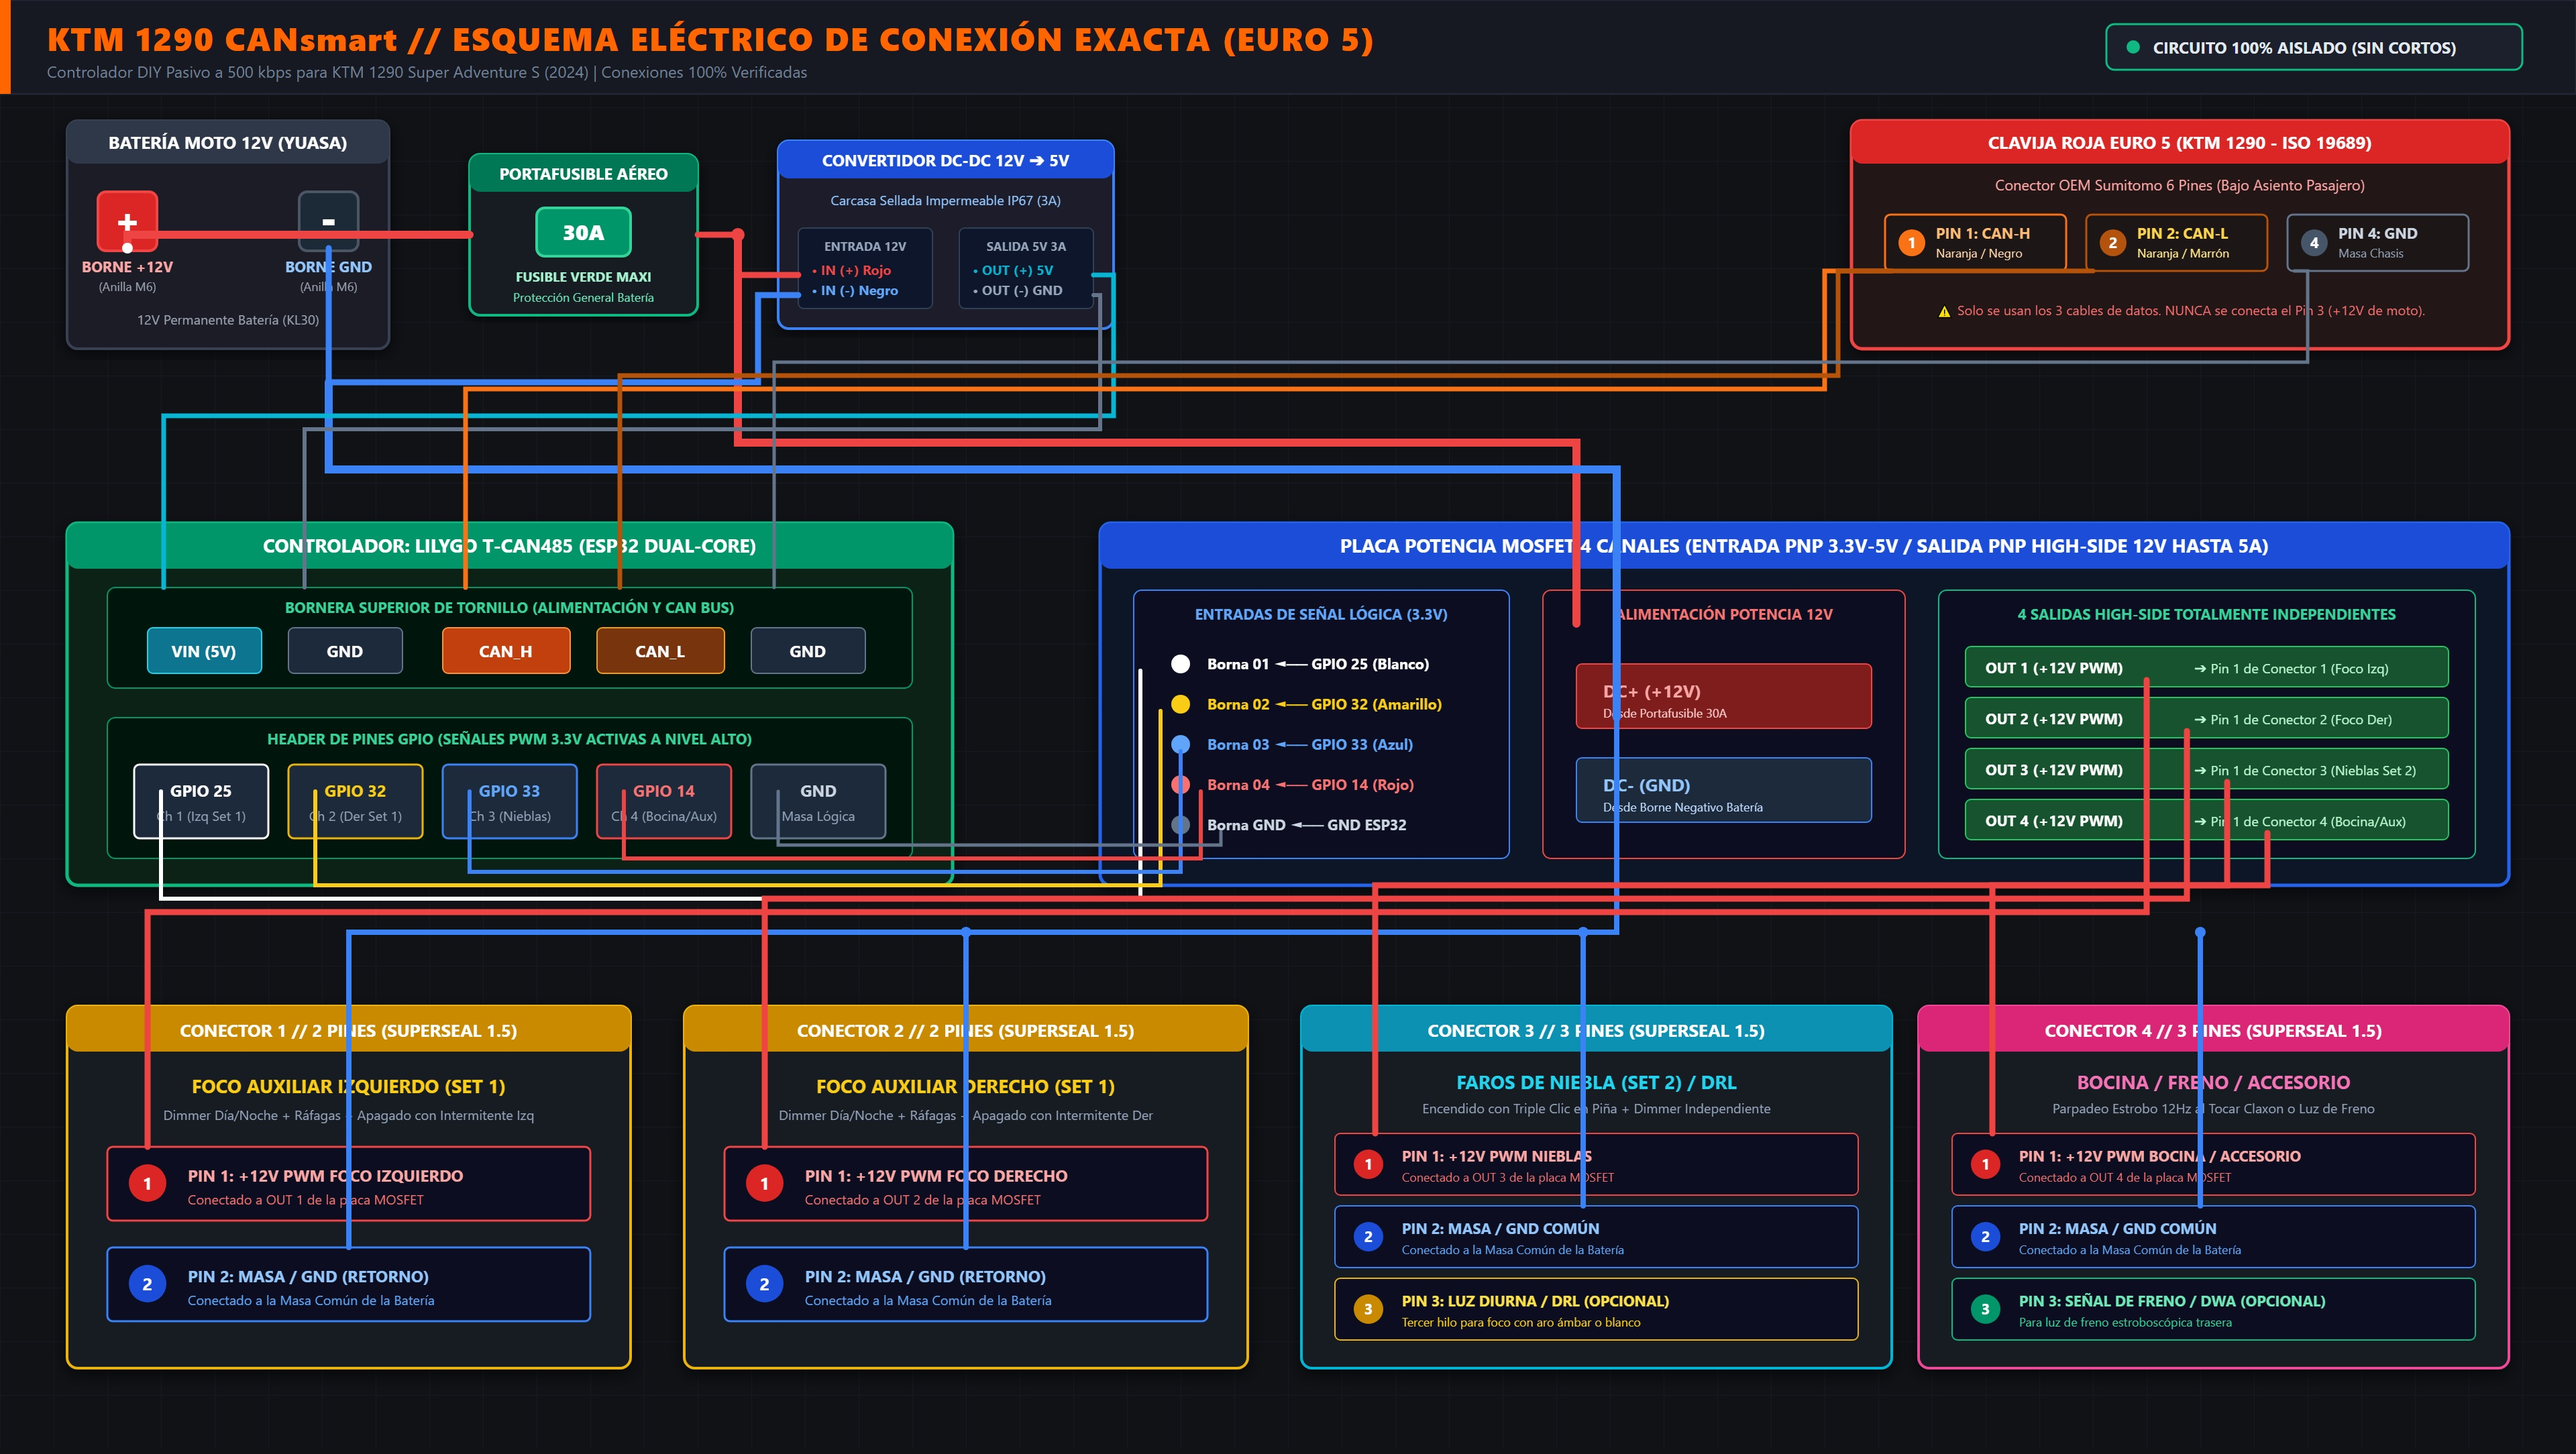
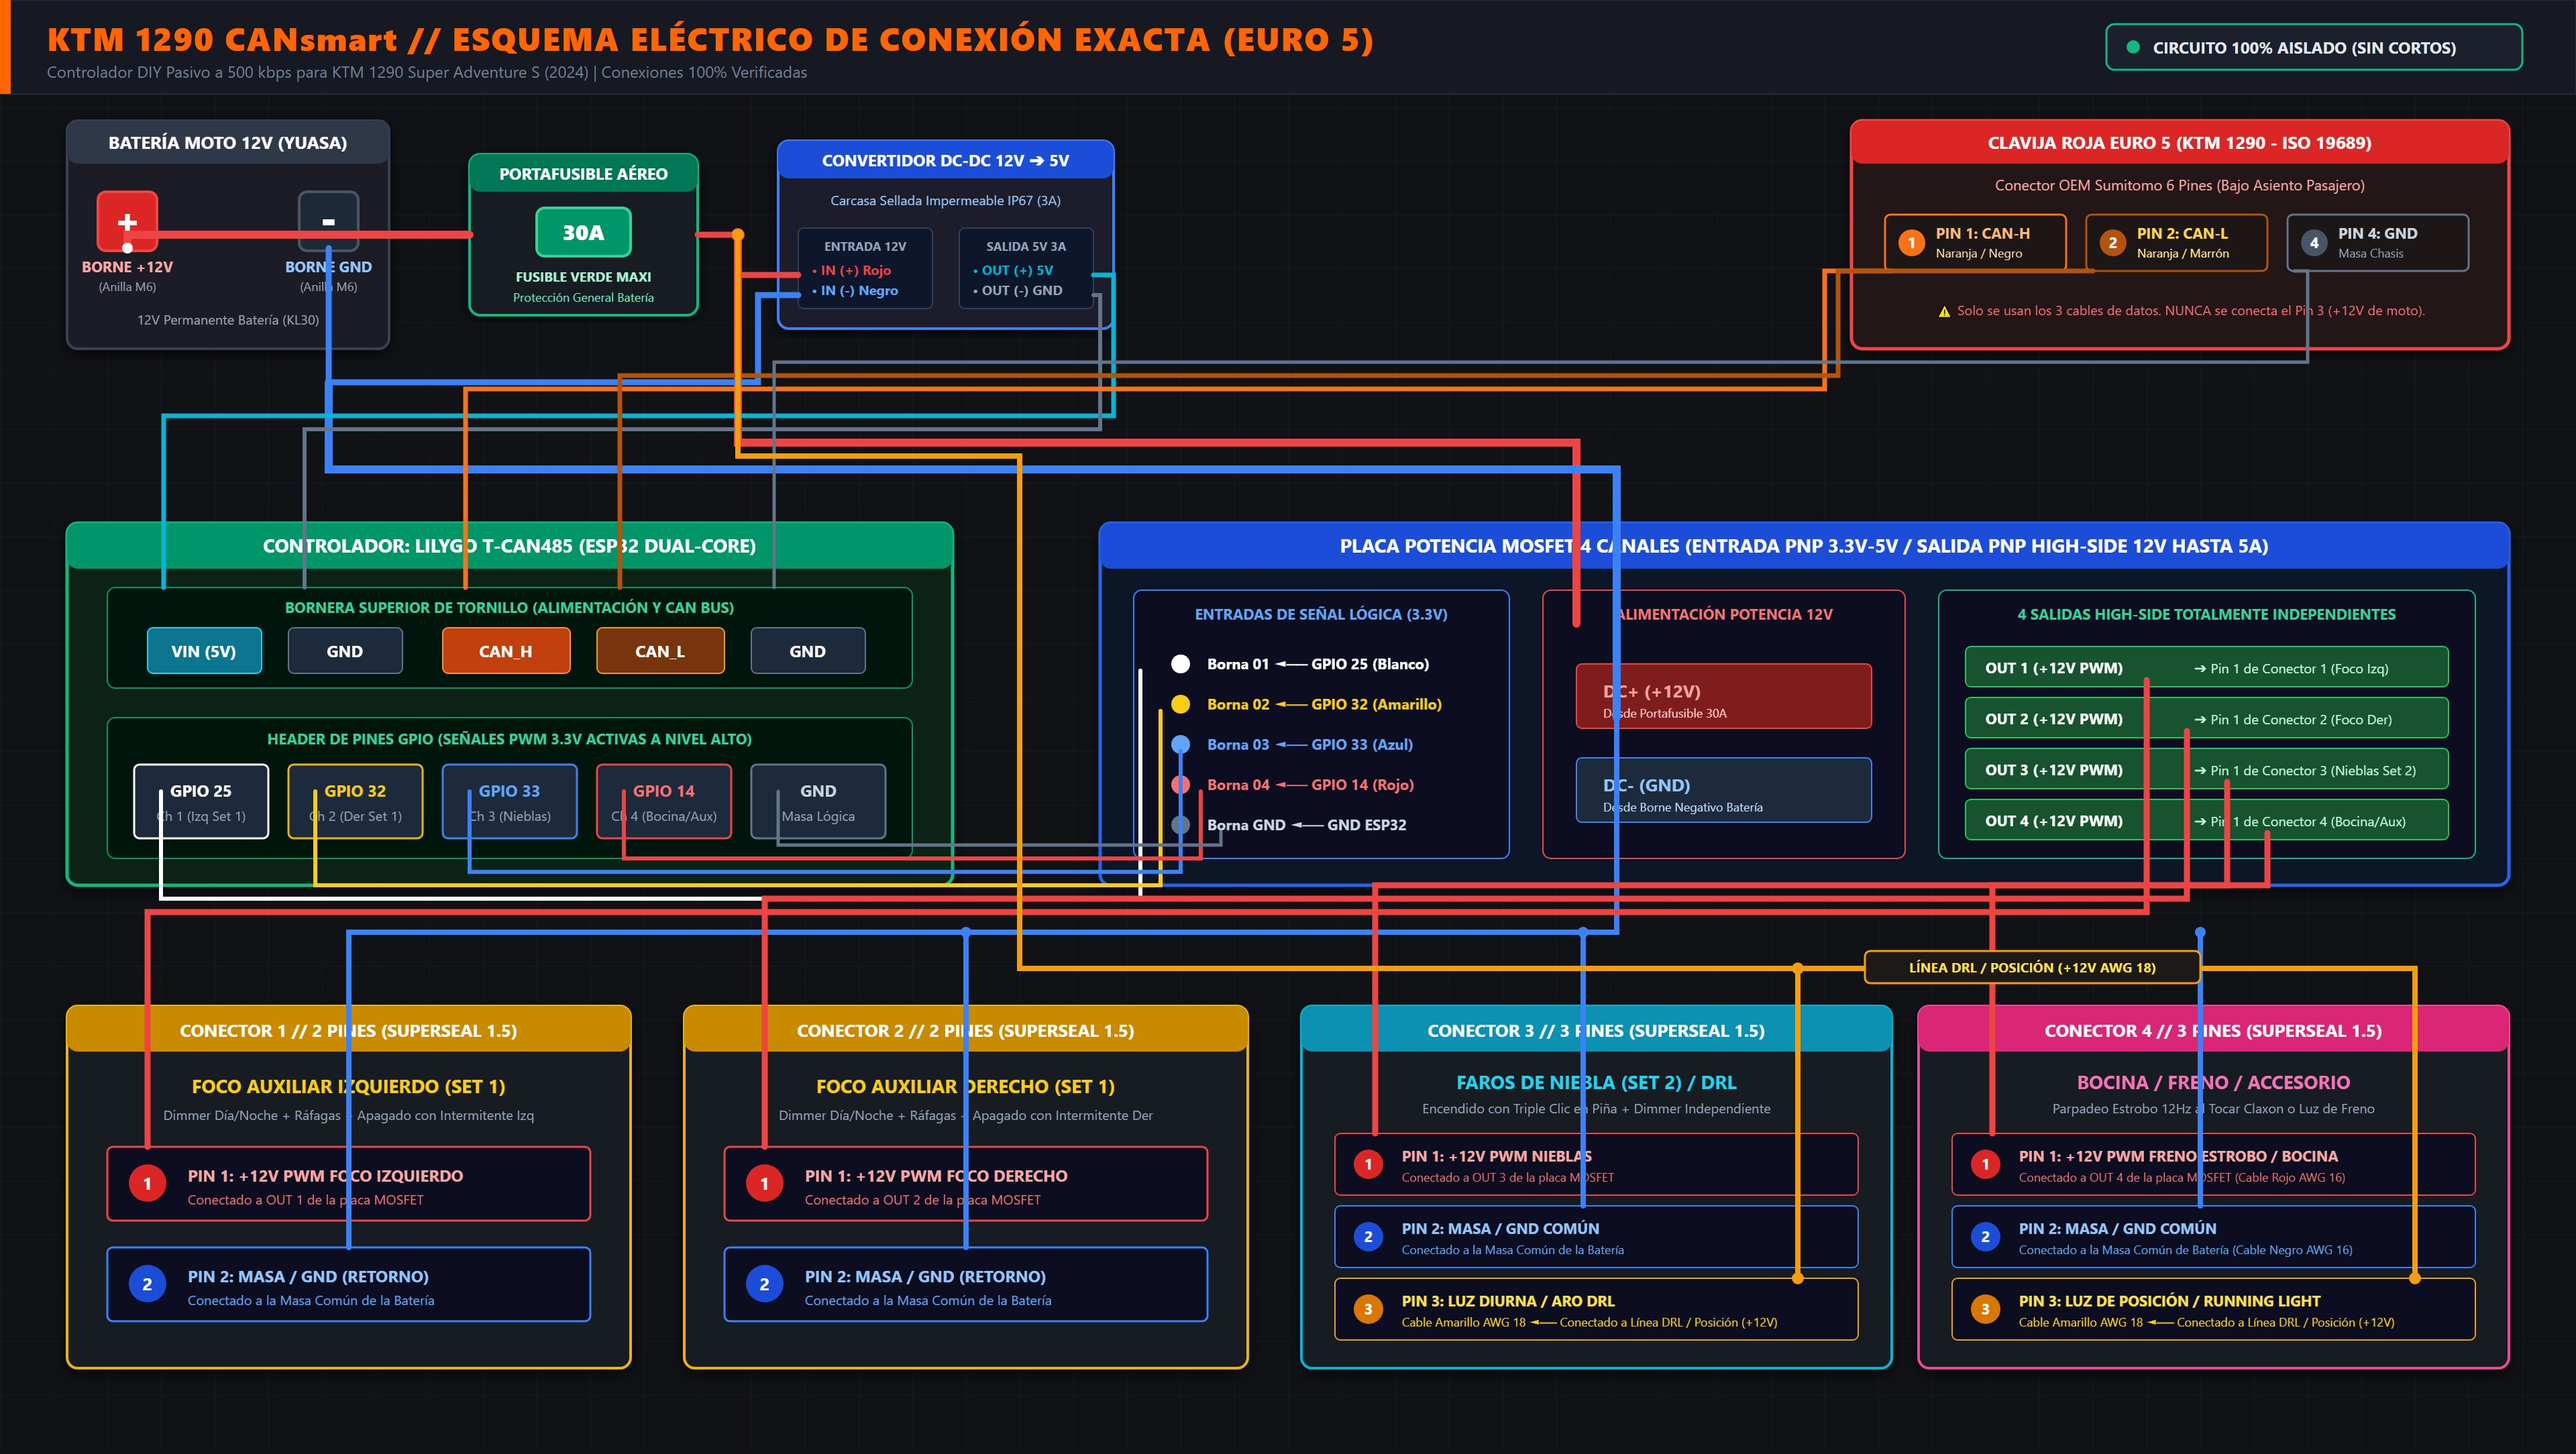
fix(hardware): wire Pin 3 on 3-pin connectors to DRL/running light circuit, update SVG schematic, notes and high-res diagram renders

diff --git a/hardware/wiring_diagram_renderer.html b/hardware/wiring_diagram_renderer.html
@@ -376,11 +376,11 @@
     </g>
 
     <g transform="translate(25, 203)">
-      <rect width="390" height="46" rx="4" fill="#0b1120" stroke="#eab308"/>
-      <circle cx="25" cy="23" r="11" fill="#ca8a04"/>
+      <rect width="390" height="46" rx="4" fill="#0b1120" stroke="#f59e0b"/>
+      <circle cx="25" cy="23" r="11" fill="#d97706"/>
       <text x="25" y="27" text-anchor="middle" fill="#fff" font-size="11" font-weight="bold">3</text>
-      <text x="50" y="21" fill="#fde047" font-size="11" font-weight="bold">PIN 3: LUZ DIURNA / DRL (OPCIONAL)</text>
-      <text x="50" y="36" fill="#facc15" font-size="9">Tercer hilo para foco con aro ámbar o blanco</text>
+      <text x="50" y="21" fill="#fde047" font-size="11" font-weight="bold">PIN 3: LUZ DIURNA / ARO DRL</text>
+      <text x="50" y="36" fill="#facc15" font-size="9">Cable Amarillo AWG 18 ◄── Conectado a Línea DRL / Posición (+12V)</text>
     </g>
   </g>
 
@@ -397,8 +397,8 @@
       <rect width="390" height="46" rx="4" fill="#0b1120" stroke="#ef4444"/>
       <circle cx="25" cy="23" r="11" fill="#dc2626"/>
       <text x="25" y="27" text-anchor="middle" fill="#fff" font-size="11" font-weight="bold">1</text>
-      <text x="50" y="21" fill="#fca5a5" font-size="11" font-weight="bold">PIN 1: +12V PWM BOCINA / ACCESORIO</text>
-      <text x="50" y="36" fill="#f87171" font-size="9">Conectado a OUT 4 de la placa MOSFET</text>
+      <text x="50" y="21" fill="#fca5a5" font-size="11" font-weight="bold">PIN 1: +12V PWM FRENO ESTROBO / BOCINA</text>
+      <text x="50" y="36" fill="#f87171" font-size="9">Conectado a OUT 4 de la placa MOSFET (Cable Rojo AWG 16)</text>
     </g>
 
     <g transform="translate(25, 149)">
@@ -406,15 +406,15 @@
       <circle cx="25" cy="23" r="11" fill="#1d4ed8"/>
       <text x="25" y="27" text-anchor="middle" fill="#fff" font-size="11" font-weight="bold">2</text>
       <text x="50" y="21" fill="#93c5fd" font-size="11" font-weight="bold">PIN 2: MASA / GND COMÚN</text>
-      <text x="50" y="36" fill="#60a5fa" font-size="9">Conectado a la Masa Común de la Batería</text>
+      <text x="50" y="36" fill="#60a5fa" font-size="9">Conectado a la Masa Común de Batería (Cable Negro AWG 16)</text>
     </g>
 
     <g transform="translate(25, 203)">
-      <rect width="390" height="46" rx="4" fill="#0b1120" stroke="#10b981"/>
-      <circle cx="25" cy="23" r="11" fill="#059669"/>
+      <rect width="390" height="46" rx="4" fill="#0b1120" stroke="#f59e0b"/>
+      <circle cx="25" cy="23" r="11" fill="#d97706"/>
       <text x="25" y="27" text-anchor="middle" fill="#fff" font-size="11" font-weight="bold">3</text>
-      <text x="50" y="21" fill="#6ee7b7" font-size="11" font-weight="bold">PIN 3: SEÑAL DE FRENO / DWA (OPCIONAL)</text>
-      <text x="50" y="36" fill="#34d399" font-size="9">Para luz de freno estroboscópica trasera</text>
+      <text x="50" y="21" fill="#fde047" font-size="11" font-weight="bold">PIN 3: LUZ DE POSICIÓN / RUNNING LIGHT</text>
+      <text x="50" y="36" fill="#facc15" font-size="9">Cable Amarillo AWG 18 ◄── Conectado a Línea DRL / Posición (+12V)</text>
     </g>
   </g>
 
@@ -487,6 +487,21 @@
   <path d="M 1660 583 L 1660 660 L 1025 660 L 1025 845" fill="none" stroke="#ef4444" stroke-width="4.5" stroke-linecap="round"/>
   <!-- OUT 4 -> Conector 4 Pin 1 -->
   <path d="M 1690 621 L 1690 660 L 1485 660 L 1485 845" fill="none" stroke="#ef4444" stroke-width="4.5" stroke-linecap="round"/>
+
+  <!-- 8. LÍNEA DRL / LUZ DE POSICIÓN (+12V PROTEGIDO) -> PIN 3 DE CONECTORES 3 Y 4 -->
+  <!-- Alimenta los aros DRL y luz de posición trasera (Cable Amarillo AWG 18) -->
+  <path d="M 550 175 L 550 340 L 760 340 L 760 722 L 1800 722 L 1800 953" fill="none" stroke="#f59e0b" stroke-width="4" stroke-linecap="round"/>
+  <!-- Derivación hacia Pin 3 de Conector 3 -->
+  <path d="M 1340 722 L 1340 953" fill="none" stroke="#f59e0b" stroke-width="4" stroke-linecap="round"/>
+  
+  <circle cx="550" cy="175" r="4.5" fill="#f59e0b"/>
+  <circle cx="1340" cy="722" r="4.5" fill="#f59e0b"/>
+  <circle cx="1340" cy="953" r="4.5" fill="#f59e0b"/>
+  <circle cx="1800" cy="953" r="4.5" fill="#f59e0b"/>
+
+  <!-- Etiqueta de la Línea DRL / Posición -->
+  <rect x="1390" y="709" width="250" height="24" rx="4" fill="#1c1917" stroke="#f59e0b" stroke-width="1.5"/>
+  <text x="1515" y="725" text-anchor="middle" fill="#fde047" font-size="10" font-weight="bold">LÍNEA DRL / POSICIÓN (+12V AWG 18)</text>
 
 </svg>
 </body>

diff --git a/hardware/schematic_notes.md b/hardware/schematic_notes.md
@@ -125,10 +125,33 @@ La placa **LILYGO T-CAN485** ya integra el microcontrolador ESP32, el transcepto
 ---
 
 ## 5. Cableado hacia los Accesorios (Conectores Estancos Comprados)
-Para igualar la calidad del DENALI CANsmart:
-* Utilizar los conectores comprados **Superseal 1.5**:
-  * **2 Conectores de 2 Pines**: Para los focos auxiliares izquierdo y derecho (Set 1).
-  * **2 Conectores de 3 Pines**: Para los faros de niebla (Set 2 con DRL) y bocina/freno.
-* Cableado siliconado AWG 16 (para canales de luces hasta 5A-10A) y AWG 14 (para alimentación principal y masa general).
-* 👉 **Plano de Conexión Completo**: Consulta [EsquematicoConexiones.md](file:///c:/APPS-DEV/zzz/KTM-Bus/EsquematicoConexiones.md) y la imagen técnica verificada [ktm_wiring_diagram_v2.jpg](file:///c:/APPS-DEV/zzz/KTM-Bus/hardware/ktm_wiring_diagram_v2.jpg).
+
+Para igualar la robustez y calidad del DENALI CANsmart, la distribución en los 4 conectores **Superseal 1.5** comprados se realiza de forma estricta:
+
+### A. Conectores de 2 Pines (Juego 1 de Focos Auxiliares)
+* **Conector 1 (Foco Auxiliar Izquierdo - Set 1)**:
+  * **Pin 1 (Cable Rojo AWG 16)**: Salida `OUT 1` (+12V conmutado por PWM, LEDC Canal 0). Dimmer día/noche, ráfagas y apagado al activar intermitente izquierdo.
+  * **Pin 2 (Cable Negro AWG 16)**: Masa común `GND` directa al borne negativo de la batería.
+* **Conector 2 (Foco Auxiliar Derecho - Set 1)**:
+  * **Pin 1 (Cable Rojo AWG 16)**: Salida `OUT 2` (+12V conmutado por PWM, LEDC Canal 1). Dimmer día/noche, ráfagas y apagado al activar intermitente derecho.
+  * **Pin 2 (Cable Negro AWG 16)**: Masa común `GND` directa al borne negativo de la batería.
+
+### B. Conectores de 3 Pines (Nieblas con DRL y Freno/Accesorio)
+* **Conector 3 (Faros de Niebla Set 2 + Aro DRL)**:
+  * **Pin 1 (Cable Rojo AWG 16)**: Salida `OUT 3` (+12V conmutado por PWM, LEDC Canal 2). Encendido con triple clic en botón cancelar intermitente o dimmer dedicado.
+  * **Pin 2 (Cable Negro AWG 16)**: Masa común `GND` de retorno.
+  * **Pin 3 (Cable Amarillo AWG 18)**: **Luz Diurna / Aro DRL (Halo)**. Conectado directamente a la **Línea DRL / Posición (+12V bajo contacto protegido)** para que el halo ámbar o blanco permanezca encendido con la moto en marcha.
+* **Conector 4 (Luz de Freno Estroboscópica / Bocina / Accesorio)**:
+  * **Pin 1 (Cable Rojo AWG 16)**: Salida `OUT 4` (+12V conmutado por PWM, LEDC Canal 3). Destello estroboscópico de alerta al frenar o activar la bocina.
+  * **Pin 2 (Cable Negro AWG 16)**: Masa común `GND` de retorno.
+  * **Pin 3 (Cable Amarillo AWG 18)**: **Luz de Posición Trasera (Running Light)**. Conectado a la **Línea DRL / Posición (+12V bajo contacto protegido)** para iluminación tenue fija de posición.
+
+---
+
+## 6. Documentación Gráfica y Planos de Conexión
+
+* 📊 **Plano de Conexionado Detallado**: Consulta [EsquematicoConexiones.md](file:///c:/APPS-DEV/zzz/KTM-Bus/EsquematicoConexiones.md) para el pinout paso a paso.
+* 🖼 **Esquema Visual de Componentes y Cableado (Alta Resolución)**: [hardware/ktm_wiring_diagram_v2.jpg](file:///c:/APPS-DEV/zzz/KTM-Bus/hardware/ktm_wiring_diagram_v2.jpg) y [hardware/ktm_wiring_diagram_v2.png](file:///c:/APPS-DEV/zzz/KTM-Bus/hardware/ktm_wiring_diagram_v2.png).
+* 📐 **Diagrama Técnico Vectorial SVG**: [hardware/ktm_wiring_schematic.svg](file:///c:/APPS-DEV/zzz/KTM-Bus/hardware/ktm_wiring_schematic.svg).
+
 

diff --git a/EsquematicoConexiones.md b/EsquematicoConexiones.md
@@ -153,10 +153,13 @@ graph TD
     GPIO14 --> IN4
     ESP_SIG_GND --> IN_GND
 
-    OUT1 --> CON1
-    OUT2 --> CON2
-    OUT3 --> CON3
-    OUT4 --> CON4
+    OUT1 -->|Pin 1 +12V PWM| CON1
+    OUT2 -->|Pin 1 +12V PWM| CON2
+    OUT3 -->|Pin 1 +12V PWM| CON3
+    OUT4 -->|Pin 1 +12V PWM| CON4
+    FUSE -->|12V Protegido| DRL_BUS["Línea DRL / Posición (+12V AWG 18)"]
+    DRL_BUS -->|Pin 3 DRL / Posición| CON3
+    DRL_BUS -->|Pin 3 DRL / Posición| CON4
 ```
 
 ---
@@ -213,10 +216,10 @@ Conexión desde el header de pines de la LILYGO hacia el lado de entrada de la p
 | **DC-** (Masa Batería) | **Conector 2** - Pin 2 | AWG 16 Negro | Masa Foco Derecho |
 | **OUT 3** (+12V PWM) | **Conector 3** - Pin 1 | AWG 16 Rojo | Positivo Focos de Niebla (Set 2) |
 | **DC-** (Masa Batería) | **Conector 3** - Pin 2 | AWG 16 Negro | Masa Focos de Niebla |
-| *(Opcional / DRL)* | **Conector 3** - Pin 3 | AWG 18 Amarillo | Tercer cable DRL (si el foco tiene aro diurno) |
-| **OUT 4** (+12V PWM) | **Conector 4** - Pin 1 | AWG 16 Rojo | Positivo Bocina / Accesorio / Luz Freno |
+| **Línea DRL / Posición** | **Conector 3** - Pin 3 | AWG 18 Amarillo | Tercer hilo: Luz Diurna / Aro DRL (+12V protegido) |
+| **OUT 4** (+12V PWM) | **Conector 4** - Pin 1 | AWG 16 Rojo | Positivo Bocina / Accesorio / Freno Estrobo |
 | **DC-** (Masa Batería) | **Conector 4** - Pin 2 | AWG 16 Negro | Masa Bocina / Accesorio |
-| *(Opcional / Freno)* | **Conector 4** - Pin 3 | AWG 18 Verde | Tercer cable Señal de Freno estrobo / DWA (opcional) |
+| **Línea DRL / Posición** | **Conector 4** - Pin 3 | AWG 18 Amarillo | Tercer hilo: Luz de Posición Trasera / Running Light |
 
 ---
 
